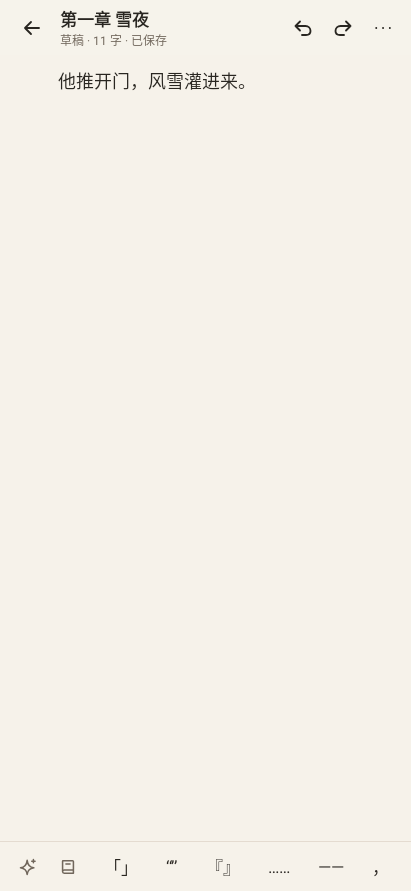
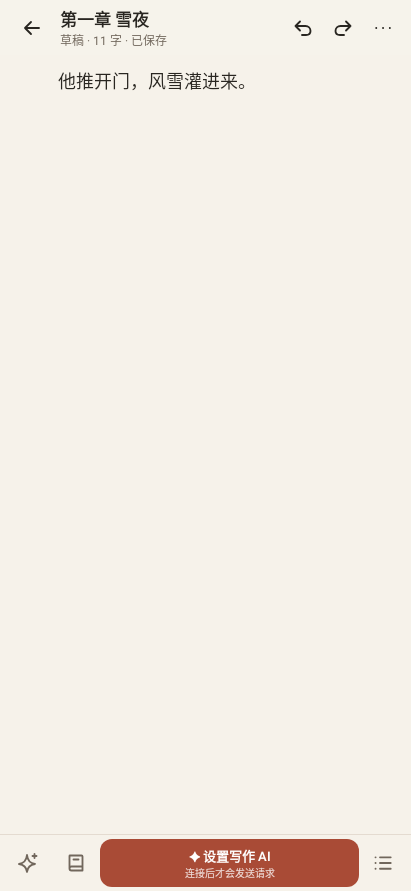
docs: align writing UI guidance and previews with current app

diff --git a/README.md b/README.md
@@ -130,12 +130,14 @@
   下载中断了下次接着下，下完核对 SHA-256；下载不了时可以用电脑从 sherpa-onnx 的发布页下好 `.tar.bz2` 再“从文件导入”。
   听书面板里在系统语音、离线语音、AI 语音之间切换；模型闲置几分钟后自动释放内存。
   只收许可证允许随意使用的模型：训练数据仅限非商业使用（如标贝）或来源不明的中文模型没有收。
-- **写作**（底部导航“写作”）：给长篇作者用的写作工具，不联网，稿子只存在本机。
+- **写作**（底部导航“写作”）：给长篇作者用的写作工具；稿子存在本机。AI 功能由作者选择本机模型或服务商，只有主动发起 AI 操作或开启写作建议后才发送相关内容。
+  - **手机写作界面**：作品页把“继续写”、设定包、故事账本和写作 AI 放在作品进度下；总纲、卷、章和细纲卡连成可折叠的规划树。点章节写正文，点旁边的卡片看细纲；“调整章节顺序”用上下移按钮，长按章节仍能打开原有操作。
+    编辑器键盘上方保留标点和原有 AI 操作，并增加按选区、章节状态与 AI 结果变化的 ✦ 推荐，以及“写／查／整理／更多”四组工具。右上角的完整菜单仍可用；候选正文只能在原结果面板核对、采纳或撤回，推荐按钮不会自动写入。故事账本可按人物、伏笔、知情和全部记录查看；人物状态可点卡片修改，伏笔可调整计划收章，原有精确编辑与历史版本仍在。详见[项目包写作](docs/project-writing.md)和[界面样稿](docs/ui-previews/README.md)。
   - **项目包写作**：从当前设定包编译一份可查看的本章任务，明确卷章、额外要求、篇幅、事实与章界、材料来源及有效前文。创作、审读、修订模板分别使用，同版独立与内嵌细纲不叠加事件。
     “AI 写一版草稿”支持逐章篇幅覆盖与“创作后审读、修订”：先写候选稿，再分事实必改和审美建议；有依据的必改项最多自动修订一轮，并重新审读新稿。
     报告绑定稿件与资料版本，出错、停止或资料变化都不会冒充通过；恢复的项目候选稿要重新审读。采纳后仍待作者定稿，规划、参考样章与待核稿不自动成为后章事实。详见[项目包写作](docs/project-writing.md)。
   - **写作范本**：在“作品 → 写作 AI → 写作范本”添加自己的 TXT 或 EPUB 范本，从编辑器的“从范本找写法”按对应章节选择开头、结尾、自选片段或整章。预览原文后主动让 AI 拆解开篇、叙事结构和对白层次，给当前章的落笔建议；只评价实际提供的范围，结果可回看。范本与分析独立于本书设定和正文；体积过大的范本在备份时会明确列出未收录项。
-  - **作品、卷、章**：一部作品按卷分章（只有一卷时就是“正文”）；长按章节改名、改状态、写细纲卡、上移下移（可以挪到相邻的卷）、删除，点卷名改卷名或删卷。
+  - **作品、卷、章**：一部作品按卷分章（只有一卷时就是“正文”）；规划树里可展开卷和细纲卡，进入调整模式后用上下移按钮改变章序（可以挪到相邻的卷）。长按章节仍可改名、改状态、编辑细纲卡或删除；点卷旁的菜单改名或删卷。
   - **章节状态**：细纲 → 草稿 → 修订 → 定稿，章节列表上标着颜色，作品页统计各状态多少章；细纲章写了字自动变草稿。
     **定稿后正文锁定**（编辑器只读，AI 也改不了），要改先写下原因解锁，记进**变更登记**；改动涉及设定（人数、生死、谁知道什么）时选“涉及设定”，
     登记里会一直标“待同步”，直到你把设定包改好、标为已同步。定稿时存一个历史版本；“已定正文”文件导进来就是定稿。
@@ -200,7 +202,7 @@
   - **AI 记录与发送内容**（作品页 → 写作 AI）：灵感、读者点评、矛盾检查、AI 写的章都记下来（最近 100 条），可以复制、删除、标“有用”“没用”；
     “最近一次发给 AI 的内容”能看到发出去的系统提示、设定资料和要求原文，审稿页、写本章页也能看。本章资料带多少字可以调（6 千到 3.2 万字）。
   - **编辑器**：一行就是一段，显示时每段首行空两格（存下的正文不带缩进）；顶上是章名、本章字数和保存状态，可撤销、重做；
-    键盘上方一排常用中文标点，成对的引号插进去光标停在中间，选中文字时把它包起来。
+    键盘上方可切换常用中文标点与 AI 操作；成对的引号插进去光标停在中间，选中文字时把它包起来。通常显示一项上下文推荐，右侧按钮打开四组工具；推荐仅作为现有流程的入口。
   - **不丢稿**：停笔不到一秒自动保存，切到后台、离开这一章时也存；写盘先写临时文件再改名，断电不会写坏。
     每次打开、离开一章和每写十分钟存一个历史版本（每章留 40 版），在“历史版本”里看全文、换回某一版（换之前现在的稿也存一版）；
     删掉的章节，正文也会先存一版。
@@ -209,7 +211,7 @@
     读不顺、漏字一听就知道。再预览时刷新同一本书，阅读进度照旧。
   - **导出**：TXT（网文平台常用的格式：段首两个全角空格）、EPUB（带目录，分卷时卷下套章）、Markdown，存到你选的位置。
   - 作品、未采纳或停止后的 AI 草稿、项目候选稿的审读要求和码字统计跟着灵阅的备份走（历史版本太大，不进备份）；恢复时本机改得更新的作品保留本机的。
-- **写作 AI**（可选，用“我的 → AI 助手”里设好的服务商）：在编辑器里点键盘上方的 ✦ 换成 AI 操作。
+- **写作 AI**（可选，用“我的 → AI 助手”里设好的模型或服务商）：编辑器键盘上方的 ✦ 可切换原有 AI 操作，旁边的推荐会随光标、选区和章节状态改变；本机小模型的上下文与功能限制见[本地 AI](docs/local-ai.md)。
   - **改稿**：选中文字（不选就是光标所在的那段）润色、更生动、扩写、缩写、挑错、按要求改。
     结果先显示对比（删掉的划线、加上的标绿），可以切到“改后”看全文；点“采纳”才改稿，一步就能撤销。
   - **灵感**：接下来怎么写（三个走向）、细节和描写、起名、卡文了（像编辑一样问你问题）、随便问；只给建议，可以插到光标处。
@@ -285,7 +287,7 @@
 
 ## 使用
 
-1. 从 [Actions](../../actions) 下载最新构建的 `LingYueReader-apk`，或自行构建。
+1. 从 [GitHub Actions](https://github.com/xycs255/LingYueReader/actions) 下载最新构建的 `LingYueReader-apk`，或自行构建。
 2. 点右上角“＋”，选择一个或多个 `.txt` / `.epub` / `.md` 文件。
 3. 长按书架上的书可以刷新、重命名或移除。
 
@@ -353,7 +355,7 @@
 
 ## 计划
 
-- 本地 AI（离线小模型做同样的四件事，不用联网），方案见 [docs/local-ai.md](docs/local-ai.md)
+- 本地 AI 的更多模型格式与能力改进（当前已支持 MediaPipe `.task` 手机模型和局域网兼容服务，现状与限制见 [docs/local-ai.md](docs/local-ai.md)）
 - WebDAV 同步
 
 欢迎提 Issue 和 PR。

diff --git a/docs/local-ai.md b/docs/local-ai.md
@@ -1,46 +1,30 @@
-# 本地 AI（计划中）
+# 本地 AI
 
-> 状态：待做。本文记录已经讨论定下的方案，动工时以此为准，按实际情况再调整。
->
-> 联网版的 AI 助手已经做了（`ai/` 目录，用读者自己的服务商和密钥），四个功能和界面都在；
-> 本地版只需把 `AiClient` 换成本机推理，提示词（`AiPrompts`）和检索（`BookIndex`）可以沿用。
+> 状态：已支持手机本机模型和局域网模型。手机模型首次下载需要网络；安装后在手机上推理。局域网模型由用户在自己的电脑上运行，灵阅通过局域网调用。两种方式都不需要付费云接口。
 
-## 目标
+## 选择方式
 
-在手机上离线运行一个小型语言模型，帮助理解正在读的书。本地版不联网，模型不随安装包分发。
+在“我的 → AI 助手”启用 AI 后，选择“本机模型（离线）”或“局域网模型”。阅读 AI 和写作 AI 共用这项配置。
 
-## 技术方案
+| 方式 | 当前实现 | 适用情况 |
+| --- | --- | --- |
+| 手机本机 | MediaPipe LLM Inference 加载 `.task` 模型；需要支持 `arm64-v8a` 的手机 | 不连电脑的短篇解释、润色、挑错和简短续写 |
+| 局域网 | 通过兼容 OpenAI 聊天接口的服务连接电脑上的 Ollama、LM Studio 等 | 电脑有足够资源、希望使用较大模型或写作设定包工具 |
 
-- **推理引擎**：[llama.cpp](https://github.com/ggml-org/llama.cpp)（MIT 许可），通过 JNI 调用，只编译 arm64-v8a，安装包约增加 5 MB；CI 需要 NDK 与 CMake。
-- **模型**：用户自行导入 GGUF 文件（例如在魔搭 ModelScope 下载 Qwen3 的 GGUF）。通过系统文件选择器取得长期读取授权，按文件描述符
-  （`/proc/self/fd/N`）直接以 mmap 读取，不复制进应用目录，省下 1–3 GB 空间。
-- **推荐模型**（4-bit 量化；速度为骁龙 8 Gen 3 上的公开实测，仅供参考）：
+## 手机本机模型
 
-  | 模型 | 大小 | 速度 | 说明 |
-  | --- | --- | --- | --- |
-  | Qwen3-1.7B | 约 1.1 GB | 约 31 tok/s | 默认推荐，8 GB 内存可用 |
-  | Qwen3-4B | 约 2.5 GB | 约 10 tok/s | 12 GB 内存旗舰机，质量更好 |
-  | Qwen3-0.6B | 约 0.4 GB | 约 73 tok/s | 低内存机型，只适合简单解释 |
+应用提供两个 Qwen2.5 预设下载项：1.5B 的文件约 1.6 GB、上下文上限 4096 token；0.5B 的文件约 550 MB、上下文上限 1280 token。1.5B 建议在 8 GB 内存以上的手机使用。预设下载支持续传，并在安装前核对 SHA-256。也可以从系统文件选择器导入兼容的 `.task` 文件；导入时会**复制到应用的模型目录**。自选模型的真实上下文长度无法自动获知，当前按 4096 token 处理，仍须以模型本身的限制为准。
 
-- **未采用的方案**：Google LiteRT-LM（接入简单、有 GPU 加速，但可选中文模型少、国内下载不便）；
-  ML Kit 的 Gemini Nano（依赖 Google 服务，国行手机基本不可用）。
+模型文件不随 APK 分发。本机推理不发送书籍或写作内容到服务器；下载预设模型时会访问模型托管站点。长输入会按上下文预算截短，因此小模型处理整章、长对话或复杂写作资料时可能遗漏信息。速度、耗电和能否成功载入取决于设备与模型，尚无统一的实测保证。
 
-## 功能（只用读者已经读到的内容，避免剧透）
+## 局域网模型
 
-1. **问 AI**：划选后操作条上的“问 AI”，解释文言、典故、方言、网络用语，或翻译外文。
-2. **查词补中文释义**：内置 CC-CEDICT 只有英文释义，查词时可让 AI 结合原句给出中文解释。
-3. **前情提要**：隔几天再打开时，概括最近读过的几章；后台生成并缓存。
-4. **问这本书**：先在已读部分做关键词检索（BM25，按段落切块），再把相关段落交给模型作答，并注明出处章节。
-5. **人物表**：从已读章节逐步整理人物与关系。
+在电脑启动兼容 OpenAI 接口的服务，填入电脑的局域网地址和实际加载的模型名。Ollama 的常见地址是 `http://电脑IP:11434/v1`，LM Studio 是 `http://电脑IP:1234/v1`；服务必须监听局域网地址，例如 Ollama 可设置 `OLLAMA_HOST=0.0.0.0`。局域网地址允许使用 HTTP 且密钥可以留空；公网地址要求 HTTPS 和密钥。灵阅将请求内容发送给所填的服务器，使用前应确认电脑、网络和模型服务可信。
 
-## 已知局限
+局域网预设在应用中使用 32,000 token 的上下文预算，这是灵阅的配置值，**不代表**所连接模型或服务一定支持该长度。写作设定包的查询与“整理本章”走兼容接口的工具调用；实际能否完成，还取决于服务的工具调用兼容性、模型能力和上下文容量。
 
-- 小模型会出错：每个回答都附上依据的原文段落，方便核对。
-- 概括整章较慢（中端机几十秒）且发热：放到后台、结果缓存。
-- 6 GB 以下内存的手机只建议用 0.6B 模型。
+## 现有能力边界
 
-## 参考
+阅读 AI 已有解释选文、AI 释义、前情提要、问这本书、人物表等入口，写作 AI 也可调用当前选定的模型。生成内容需要读者核对，尤其是人名、事实和引文。本机模型上下文短，写作时只带按章精选的资料，**不能**使用完整设定包工具或执行“整理本章”；需要这些能力时，可使用满足接口要求的局域网模型或其他兼容服务。
 
-- pocket-llama：llama.cpp 在 Android 上的实测 <https://github.com/RomanQuintero/pocket-llama>
-- LiteRT-LM <https://ai.google.dev/edge/litert-lm/overview>
-- ML Kit GenAI Prompt API <https://developer.android.com/blog/posts/ml-kit-s-prompt-api-unlock-custom-on-device-gemini-nano-experiences>
+目前没有集成 llama.cpp、GGUF 导入、JNI 推理或通过文件描述符直接 mmap 模型文件。它们仅可作为未来方案评估，不能按已实现功能使用。

diff --git a/docs/project-writing.md b/docs/project-writing.md
@@ -2,11 +2,19 @@
 
 写作围绕作者已经建立的项目包展开：先确定本章任务，再创作、审读和修订。软件负责材料分工、版本与检查记录，章界、关键选择和作者定稿权仍由作者掌握。
 
+## 手机上从哪里进入
+
+作品页先显示字数、章节状态和待整理提示，下方的“继续写”“设定包”“故事账本”“写作 AI”直达日常任务。“规划树”把总纲、卷、章和细纲卡放在同一列表：点章写正文，点章右侧的卡片图标展开细纲卡入口；点卷折叠或展开，长按章可改名、改状态、移动或删除。需要连续调整顺序时，先点“调整章节顺序”，再用每章下方的上移、下移按钮。原有的预览、变更登记、伏笔和检查规则仍在“更多功能”中。
+
+编辑器键盘上方默认是一行 ✦ 智能推荐。它按当前状态提供一个入口：空章建议“写本章草稿”，选中文字建议改写，修订章建议审稿，其余可从光标处接着写；AI 未设置或章节已定稿时，先指向设置或解锁。生成中和待处理的 AI 结果只显示状态，采纳、撤回仍要到上方的结果面板操作。左侧 ✦ 可切回原有 AI 工具条，标点条也仍可使用；右侧工具图标展开“写 / 查 / 整理 / 更多”四组短操作。“写”有写本章草稿与 AI 接着写，“查”有三道审稿、细纲卡与本章资料，“整理”有整理入账、故事账本与章节状态，“更多”的“全部工具”保留原有完整菜单。推荐会随光标、选区及章节状态变化，不会自行发请求或采纳稿件。
+
+故事账本可按“人物 / 伏笔 / 知情 / 全部记录”查看，并选择看到哪一章。人物卡按方面显示该章可见的状态，点方面登记新状态时要填写生效章；伏笔卡可调计划收章；知情格点开后可查看已有来源，登记新知情必须填写获知章和消息来源。这些图形操作修改的是账本记录，旧章状态仍保留；设定包的原始伏笔计划不会被静默改写。图形操作后可在账本页撤销上一步；若记录又被修改，撤销会拒绝覆盖并提示核对历史版本。AI 的整理提议仍须作者逐条审核、选择，才写入设定包。
+
 ## 日常使用
 
 1. 在作品的“设定包”中导入当前材料。保留使用说明、总纲、不变量、卷章细纲、人物、察觉与伏笔，以及独立的创作、审读、修订提示词。
-2. 打开目标章，确认细纲卡里的本章事实与结果、承接边界、视角、时间、推进线和章末去向。只有章组时，先手动划清这一章的起止，不把整组压成一章。
-3. 进入“AI 写一版草稿”。“本章写作任务”列出实际采用的材料、前文状态、篇幅与缺项。本次要求和篇幅覆盖只作用于本次任务；前章尚未定稿时，写前由作者确认是否按细纲已定结果承接。
+2. 在作品页的规划树打开目标章，确认细纲卡里的本章事实与结果、承接边界、视角、时间、推进线和章末去向。只有章组时，先手动划清这一章的起止，不把整组压成一章。
+3. 从空章的智能推荐或“写 → 写本章草稿”进入“AI 写本章”。“本章写作任务”列出实际采用的材料、前文状态、篇幅与缺项。本次要求和篇幅覆盖只作用于本次任务；前章尚未定稿时，写前由作者确认是否按细纲已定结果承接。
 4. 导入了项目阶段模板或卷章细纲时，“创作后审读、修订”默认开启。普通作品可按需要打开。缺少本章硬事实时先补细纲；普通衔接与对白不需要重新做开书问卷。
 5. 写作结果保留为候选稿。审读先列主要问题，将有依据的必改项和可取舍的审美建议分开，并显示原句与依据。资料不足明确列为缺项。
 6. 有必改项时，最多自动修订一轮，再对新稿重新审读；仍有必改项或缺资料时停在“需要核对”。“审读并修订此稿”可继续处理已经保存的候选稿。

diff --git a/docs/ui-previews/README.md b/docs/ui-previews/README.md
@@ -1,12 +1,12 @@
 # UI 实测样稿
 
-这些图片由 Robolectric SDK 36 在 411 × 891 dp 的 Compose 界面测试中生成，使用测试书与测试作品。它们展示实际渲染结果；设备上的帧率、模糊折射与触感仍需真机检查。
+这些图片由 Robolectric SDK 36 的 Compose 界面测试生成，使用测试书与测试作品。除注明外，视口为 411 × 891 dp。它们展示实际渲染结果；设备上的帧率、输入法遮挡、模糊折射与触感仍需真机检查。
 
 | 区域 | 亮色 | 暗色 |
 | --- | --- | --- |
 | 首页 | [书架](paper-shelf.png) · [写作](paper-writing.png) · [生词本](paper-vocabulary.png) · [统计](paper-stats.png) · [我的](paper-me.png) | [写作](ink-writing.png) · [我的](ink-me.png) |
-| 写作 | [作品](paper-work.png) · [编辑器](paper-editor.png) | — |
+| 写作 | [作品](paper-work.png) · [规划树](paper-work-tree.png) · [编辑器](paper-editor.png) · [四组工具](paper-editor-tools.png) · [故事账本](paper-ledger.png) · [360 × 640 小屏工具](paper-editor-compact-tools.png) | [作品](ink-work.png) · [编辑器](ink-editor.png) · [四组工具](ink-editor-tools.png) |
 | 阅读 | [纸色正文](paper-reader.png) · [紧凑划选](selection-compact.png) | [目录侧栏](night-catalog.png) · [排版面板](night-typography.png) |
 | 设置与统计 | [主题设置](paper-theme.png) · [统计展开态](stats-expanded.png) | [主题设置](ink-theme.png) |
 
-目录侧栏可切换正序与倒序；截图中的章节、书名、统计时长和写作内容均为测试数据。
+目录侧栏可切换正序与倒序；截图中的章节、书名、统计时长和写作内容均为测试数据。写作截图覆盖规划树、键盘上方工具面板、非空故事账本及夜间配色；360 × 640 图只模拟小视口，不代表真实输入法已经过设备验证。

diff --git a/docs/motion.md b/docs/motion.md
@@ -94,6 +94,14 @@
 | 书页厚度 | 一页页翻时两摞不动（一页的厚度不到一像素，跟着挪会取整跳动、书口一闪），停稳后接上，翻起的纸在两摞上投影，掀起一半时最深（仿真 0.24、覆盖 0.16、平移 0.1、无动画不投）；跳章、拖进度条时两摞 280 ms 顺滑换过去 |
 | 书页配色 | 环境光、日落变暖时 3 秒渐变，不突然一闪；自己在外观里点了别的配色时 280 ms 换过去，不让人等 |
 
+## 写作页
+
+| 场景 | 动效 |
+| --- | --- |
+| 作品规划树 | 展开卷或细纲卡、调整章节顺序沿用 `listItem()`；折叠状态按作品在配置变化时保留，旋转后保持。减少动效时直接到位 |
+| 编辑器键盘上方工具 | 智能推荐、AI 操作和标点条切换时淡入淡出；“写／查／整理／更多”面板沿用 `InlinePanel` 的边缘进入和退出，不盖住正文中的 AI 采纳操作 |
+| AI 正文候选 | 候选结果由原面板处理；采纳后，新写入的文字从候选色过渡为正文色。减少动效时立即显示终态 |
+
 ## 生词本复习
 
 | 场景 | 动效 |
